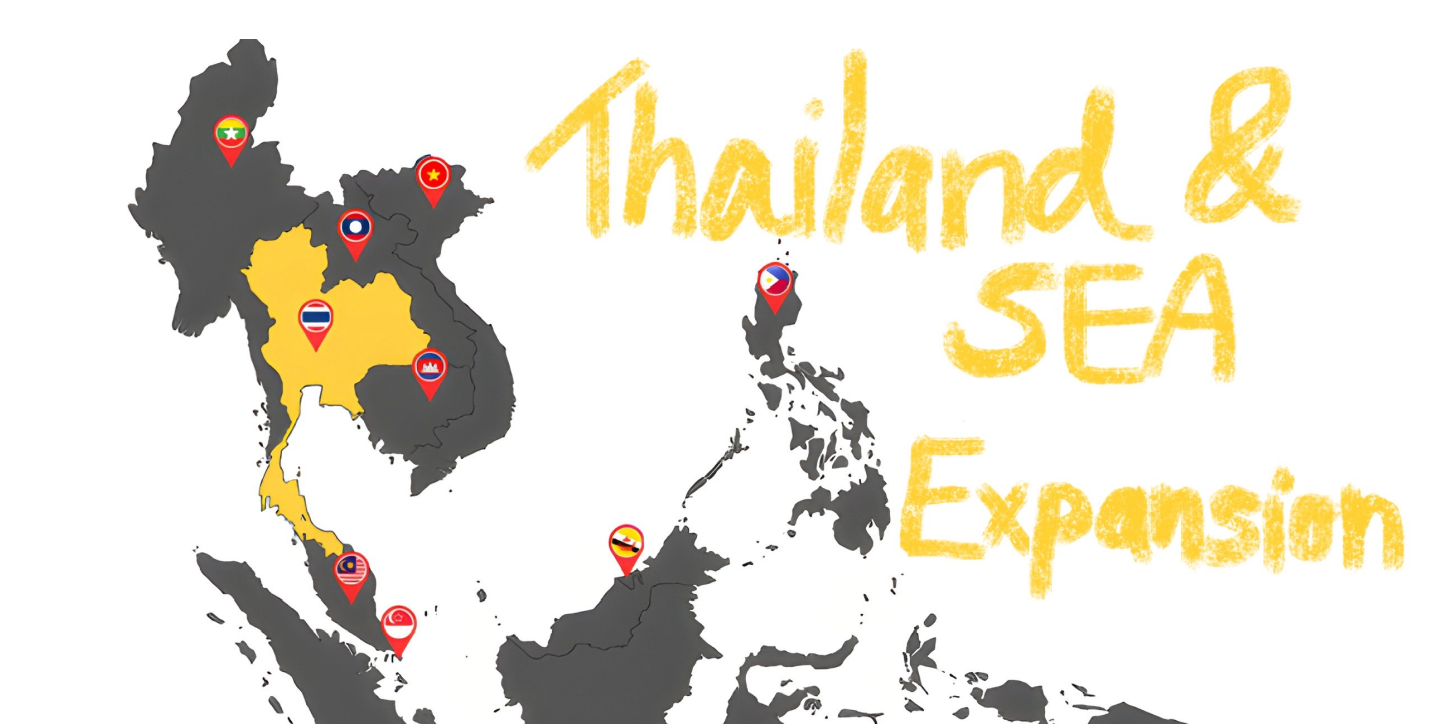
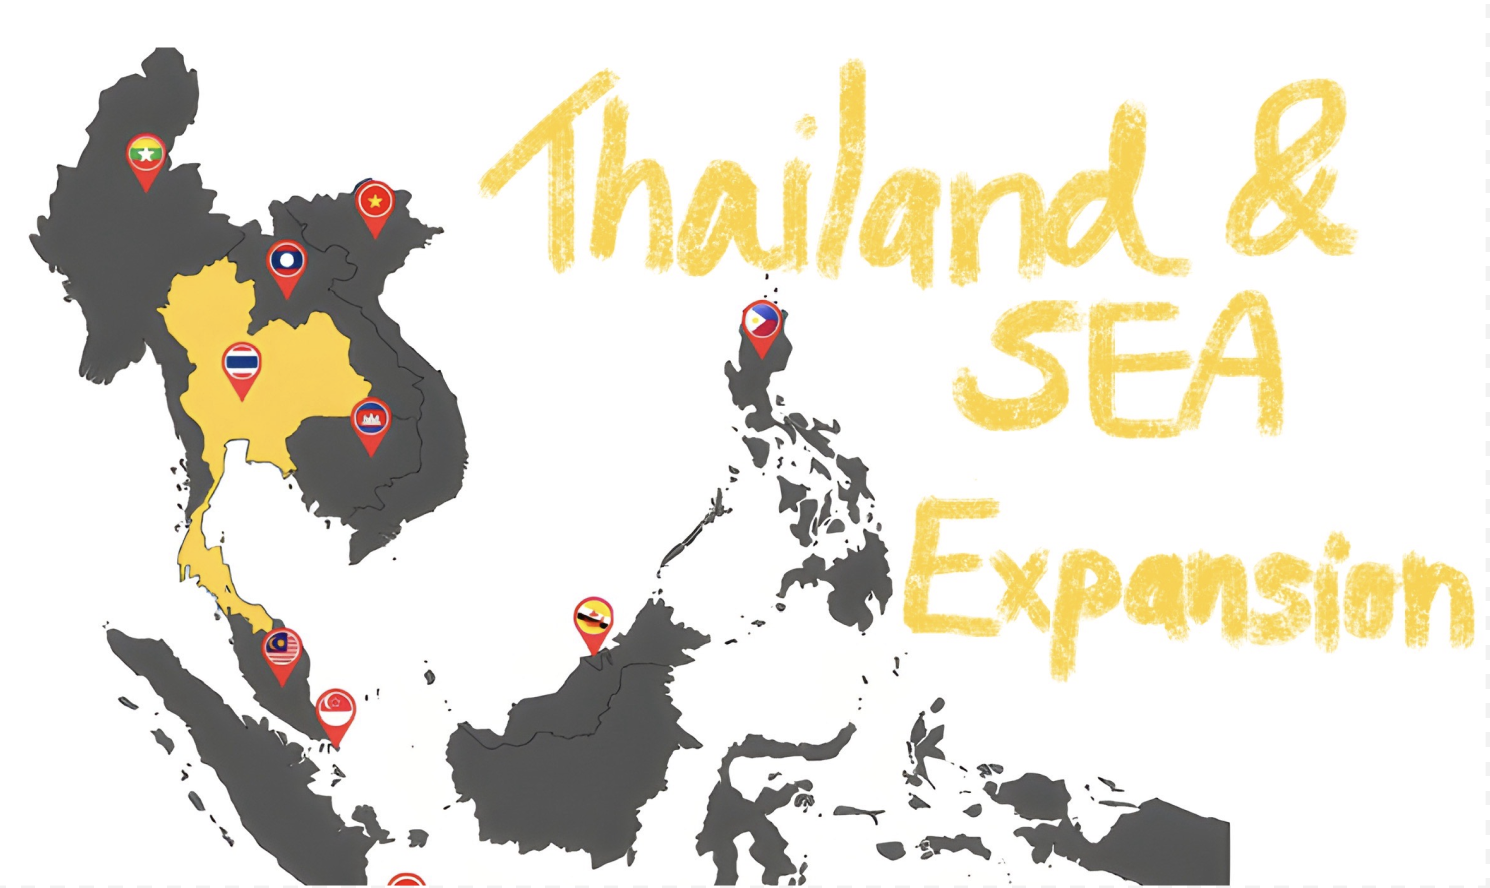
upadate tab picture again

diff --git a/src/pages/Home.jsx b/src/pages/Home.jsx
@@ -255,8 +255,9 @@ const Home = () => {
       link: '/about', // Link to about page
       imageStyle: { // Custom style for banner 3
         objectFit: 'contain',
-        maxHeight: '80%',
+        maxHeight: '100%',
         width: 'auto',
+        height: '100%',
         margin: '0 auto'
       }
     },
